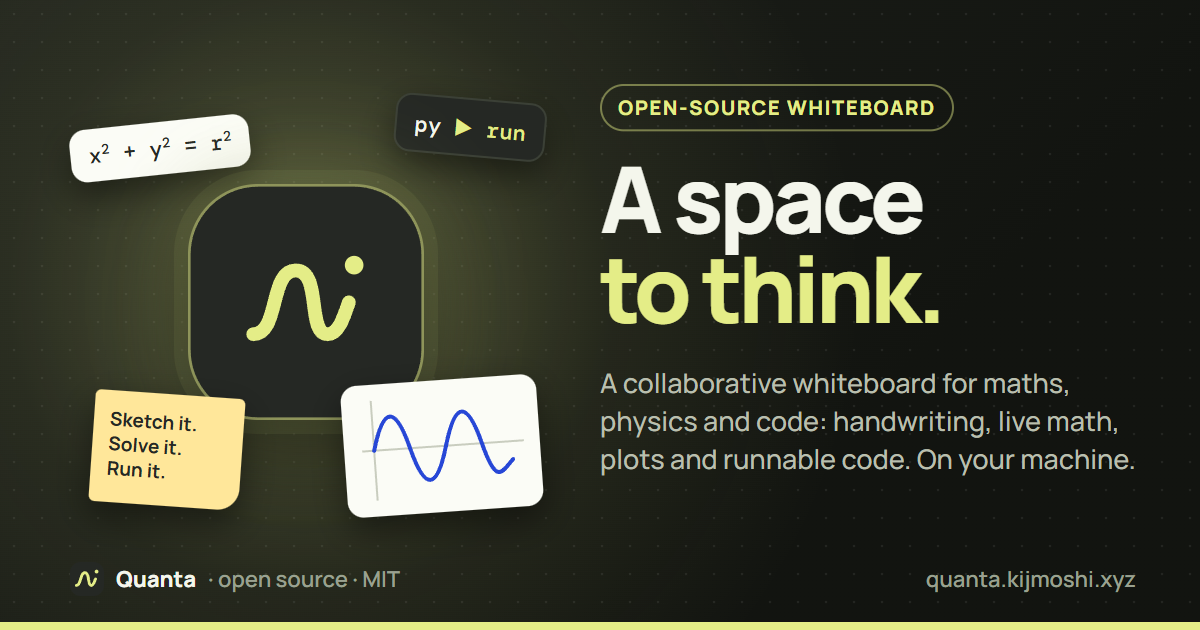
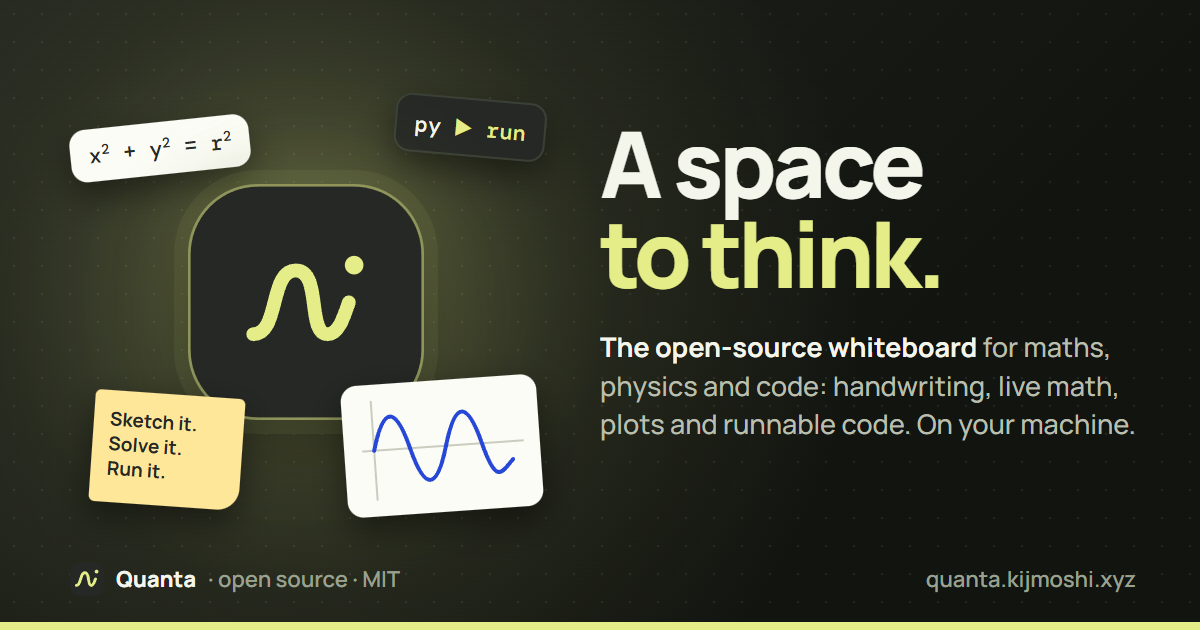
Website: drop the hero badge; say 'open-source whiteboard' in the intro and preview card

Changed region(s): [[0.4933, 0.1206, 0.9558, 0.754]]

diff --git a/site/index.html b/site/index.html
@@ -76,8 +76,7 @@ h1 { font-size: clamp(56px, 7.4vw, 104px); line-height: .96; letter-spacing: -.0
 h1 em { font-style: normal; color: var(--citron); position: relative; white-space: nowrap; }
 h1 em svg { position: absolute; left: -2%; bottom: -.14em; width: 104%; height: .3em; overflow: visible; }
 h1 em path { stroke: var(--citron); stroke-width: 5; fill: none; stroke-linecap: round; stroke-dasharray: 320; stroke-dashoffset: 320; animation: draw 1.1s .6s ease-out forwards; }
-.hero-kicker { display: inline-flex; align-items: center; gap: 8px; margin: 0 0 22px; padding: 7px 14px; border: 1px solid rgba(228, 237, 135, .4); border-radius: 999px; color: var(--citron); font-size: 13px; font-weight: 800; letter-spacing: .06em; text-transform: uppercase; }
-.hero-kicker span { font-size: 15px; }
+.lead strong { color: var(--paper); font-weight: 700; }
 .lead { font-size: 19px; line-height: 1.7; color: var(--soft); max-width: 29em; margin: 0 0 32px; }
 .cta { display: flex; gap: 12px; flex-wrap: wrap; }
 .btn { display: inline-flex; align-items: center; gap: 8px; padding: 14px 24px; border-radius: 14px; font-weight: 700; text-decoration: none; transition: background-color .15s, transform .15s, box-shadow .15s; }
@@ -311,9 +310,8 @@ footer a:hover { color: var(--ink); text-decoration: underline; }
   <div class="wrap">
     <div class="hero" id="top">
       <div>
-        <p class="hero-kicker"><span aria-hidden="true">✎</span> Open-source whiteboard for maths, physics &amp; code</p>
         <h1>A space to <em>think.<svg viewBox="0 0 200 20" preserveAspectRatio="none" aria-hidden="true"><path d="M4 12 C 40 2, 80 18, 120 8 S 180 6, 196 10"/></svg></em></h1>
-        <p class="lead">Quanta is a collaborative whiteboard. Sketch a thought, solve an equation, run the code: handwriting, typeset maths, live plots and Python share one infinite canvas, on a server you own.</p>
+        <p class="lead"><strong>Quanta is an open-source whiteboard for maths, physics and code.</strong> Sketch a thought, solve an equation, run the code: handwriting, typeset maths, live plots and Python share one infinite canvas, on a server you own.</p>
         <div class="cta">
           <a class="btn primary" href="#install"><svg viewBox="0 0 24 24" fill="none" stroke="currentColor" stroke-width="2.2" stroke-linecap="round" stroke-linejoin="round" aria-hidden="true"><path d="M12 3v12m0 0-5-5m5 5 5-5M4 21h16"/></svg>Install Quanta</a>
           <a class="btn ghost" href="https://github.com/real-kijmoshi/quanta/releases/latest">Download release</a>

diff --git a/scripts/og-card.html b/scripts/og-card.html
@@ -38,8 +38,8 @@
   .plot svg { width: 100%; height: 100%; }
 
   /* Right: the message. */
-  .copy { position: absolute; left: 600px; top: 84px; right: 60px; }
-  .eyebrow { display: inline-block; margin-bottom: 22px; padding: 8px 16px; border-radius: 999px; border: 2px solid rgba(228, 237, 135, .45); color: #e4ed87; font-size: 20px; font-weight: 800; letter-spacing: .08em; text-transform: uppercase; }
+  .copy { position: absolute; left: 600px; top: 118px; right: 60px; }
+  p strong { color: #f4f6ec; font-weight: 700; }
   h1 { font-size: 92px; line-height: .98; font-weight: 800; letter-spacing: -.045em; }
   h1 span { color: #e4ed87; }
   p { margin-top: 30px; font-size: 27px; line-height: 1.42; font-weight: 500; color: #b9bfae; }
@@ -63,9 +63,8 @@
     </div>
   </div>
   <div class="copy">
-    <div class="eyebrow">Open-source whiteboard</div>
     <h1>A space<br><span>to think.</span></h1>
-    <p>A collaborative whiteboard for maths, physics and code: handwriting, live math, plots and runnable code. On your machine.</p>
+    <p><strong>The open-source whiteboard</strong> for maths, physics and code: handwriting, live math, plots and runnable code. On your machine.</p>
   </div>
   <div class="foot">
     <span class="brand"><svg viewBox="0 0 32 32"><rect width="32" height="32" rx="10" fill="#252824"/><path d="M6 22c5 0 3-12 8-12s2 12 6 12c2 0 3-3 4-6" fill="none" stroke="#e4ed87" stroke-width="2.75" stroke-linecap="round"/><circle cx="25" cy="9" r="1.75" fill="#e4ed87"/></svg><strong>Quanta</strong>· open source · MIT</span>
